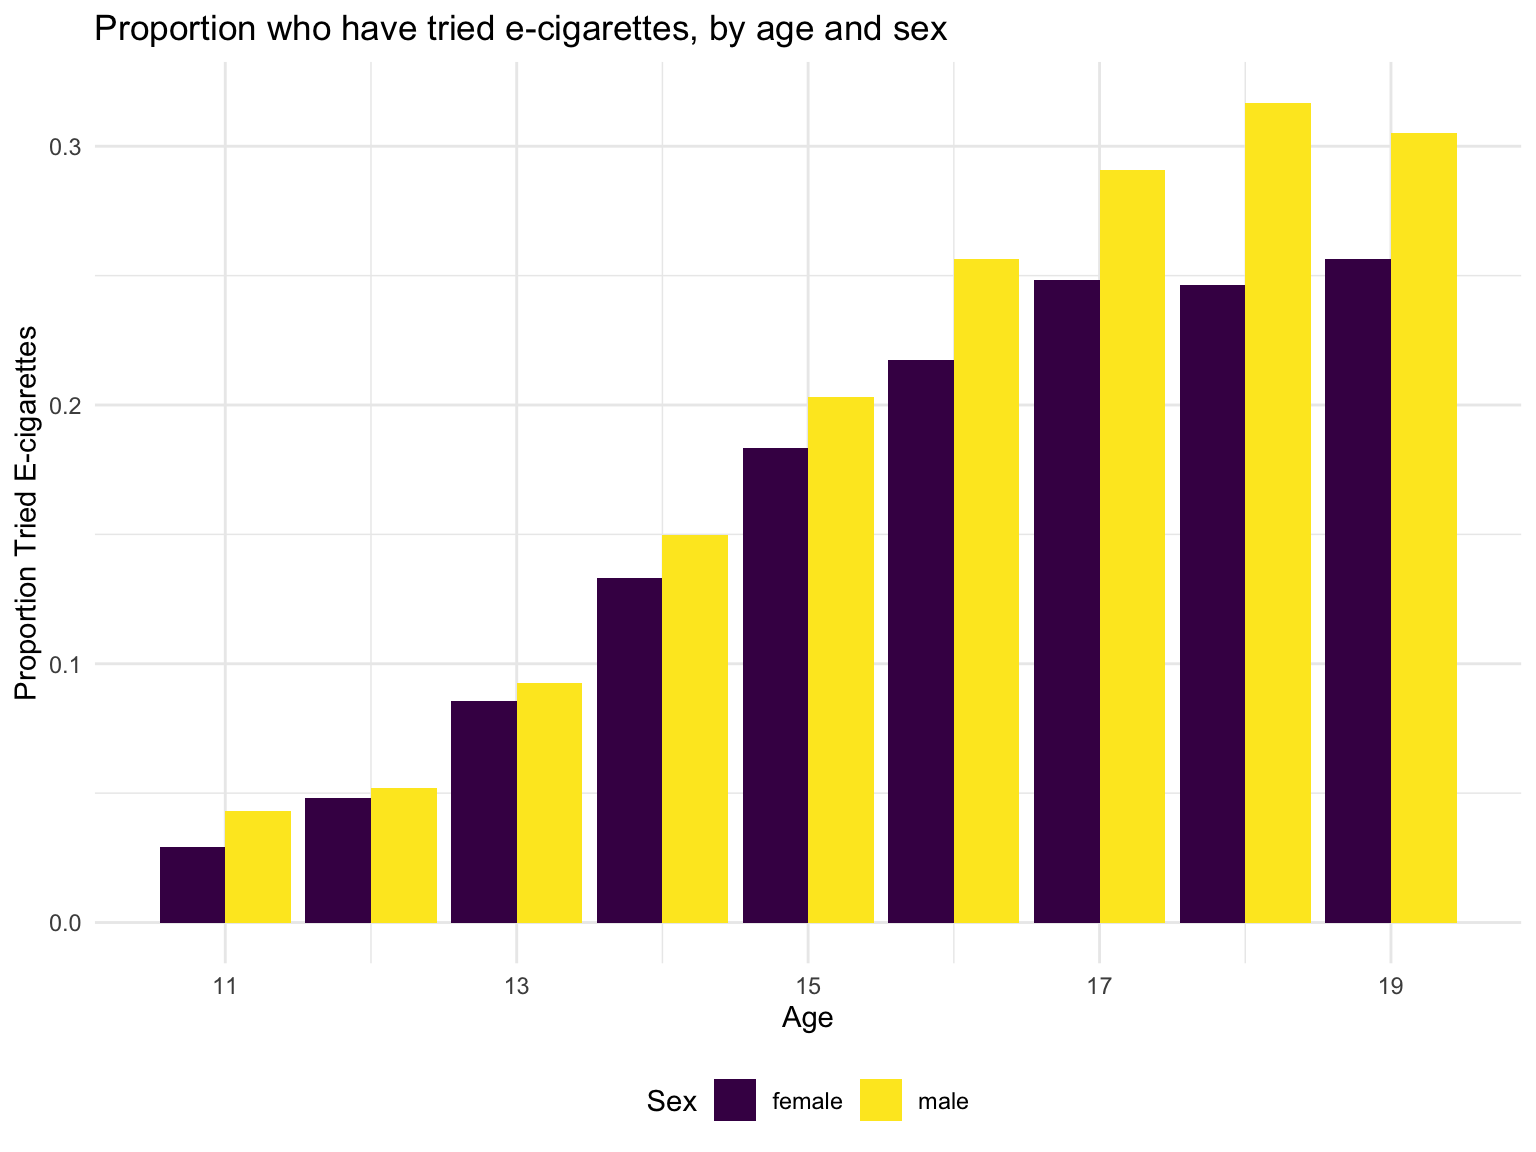
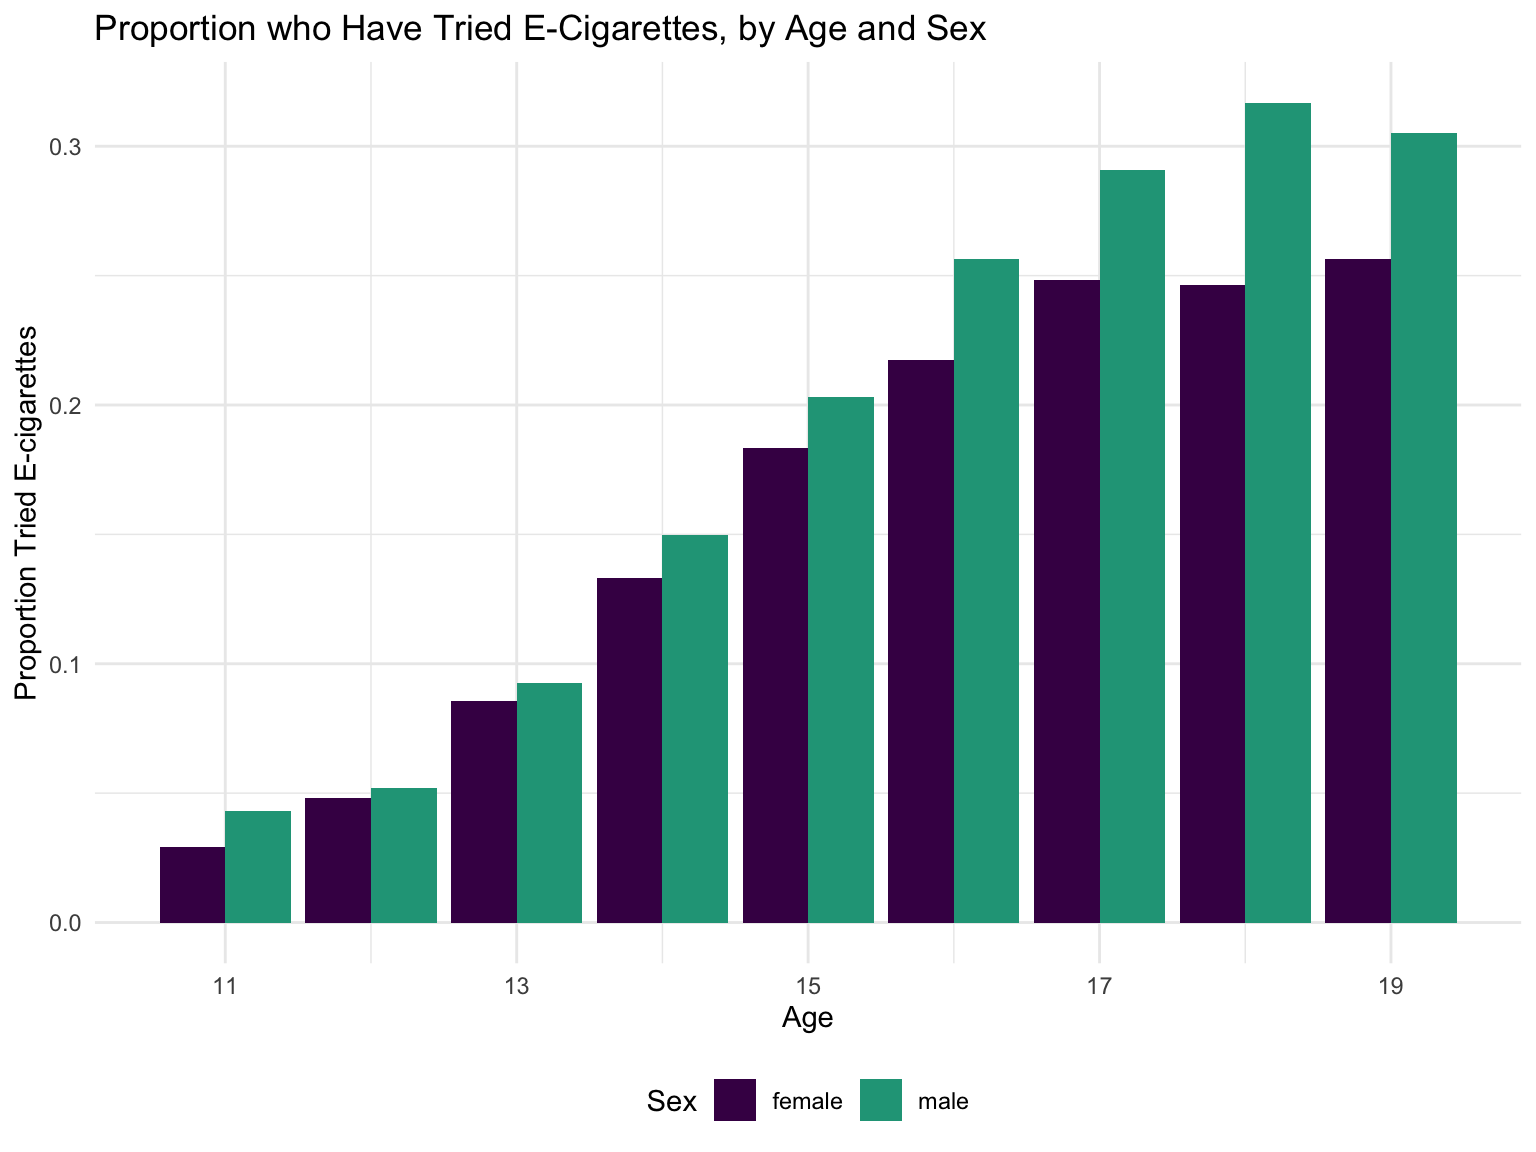
cleaned analysis page

diff --git a/analysis.html b/analysis.html
@@ -403,6 +403,7 @@ div.tocify {
 ecig_data = read.csv(&quot;./Data/ecig_data.csv&quot;)  </code></pre>
 <div id="logistic-model" class="section level1">
 <h1>Logistic Model</h1>
+<p><span class="math inline">\(y\sim age + year + sex + race + cig\_days + harm\_ecgis + ads\_ecigs\)</span></p>
 <pre class="r"><code>ecig_data_for_regression = 
   read.csv(&quot;./Data/ecig_data.csv&quot;) %&gt;%
   mutate(age = as.numeric(age),
@@ -700,8 +701,9 @@ ggplot(log_model_summary, aes(x = Variable, y = OR)) +
   geom_col(position = &quot;dodge&quot;) +
   ylab(&quot;Proportion Tried E-cigarettes&quot;) +
   labs(fill = &quot;Sex&quot;,
-       title = &quot;Proportion who have tried e-cigarettes, by year and sex&quot;) +
-  xlab(&quot;Year&quot;) </code></pre>
+       title = &quot;Proportion Who Have Tried E-Cigarettes, by Year and Sex&quot;) +
+  xlab(&quot;Year&quot;) +
+  scale_fill_manual(values = c(&quot;#440154FF&quot;, &quot;#20A387FF&quot;))</code></pre>
 <p><img src="analysis_files/figure-html/unnamed-chunk-3-1.png" width="90%" /></p>
 <p>From 2011-2018, we can see that the proportion of males who have tried e-cigarettes is consistently higher than females. Furthermore, both the male and female proportions spike from 2013-2014 and then relatively plateau from 2014-2018.</p>
 <p>Has the perception of harmfulness of electronic cigarettes compared to cigarettes changed over time?</p>
@@ -729,8 +731,7 @@ srv_ecig %&gt;%
     title = &quot;Perception of Harmfulness of E-Cigarettes Compared to Cigarettes&quot;,
     x = &quot;Year&quot;,
     y = &quot;Proportion of Belief&quot;,
-    fill = &quot;Harmfulness compared to cigarettes&quot;) +
-  theme(plot.title = element_text(hjust = 0.5))</code></pre>
+    fill = &quot;Harmfulness compared to cigarettes&quot;)</code></pre>
 <p><img src="analysis_files/figure-html/unnamed-chunk-4-1.png" width="90%" /></p>
 <p>Most individuals believed that e-cigarettes were less harmful than standard cigarettes, which may be linked to the recent increase in e-cigarette use in the United States. However, since 2012, there has been an overall decrease in the perception that e-cigarettes are less harmful than standard cigarettes. This trend is understandable, since researchers have been finding increasing evidence that e-cigarette use is associated with lung injury.</p>
 <p>Has the frequency of electronic cigarette and cigarette use changed over time?</p>
@@ -772,7 +773,7 @@ srv_ecig %&gt;%
     breaks=c(&quot;cig_days&quot;, &quot;ecig_days&quot;),
     labels=c(&quot;Cigarettes&quot;, &quot;E-Cigs&quot;)
     ) +
-  labs(title = &quot;Average days of smoking per month&quot;, y = &quot;Days Smoking&quot;, x = &quot;Year&quot;) </code></pre>
+  labs(title = &quot;Average Days of Smoking per Month&quot;, y = &quot;Days Smoking&quot;, x = &quot;Year&quot;) </code></pre>
 <p><img src="analysis_files/figure-html/unnamed-chunk-5-1.png" width="90%" /></p>
 <p>Overall, we can see that average monthly cigarette use has decreased from 2011-2018. Data on average monthly e-cigarette use is only available from 2015-2018; however, we can observe that e-cigarette use was more frequent than standard cigarette use from 2015-2018. E-cigarette use spiked from 2017-2018, but there does not seem to be evidence of a relationship between e-cigarette and standard cigarette use from this figure.</p>
 <p>Are cigarette smokers more likely to try electronic cigarettes?</p>
@@ -791,7 +792,7 @@ ecig_data %&gt;%
   xlab(&quot;Age&quot;) +
   ylab(&quot;Proportion Tried E-cigarettes&quot;) +
   labs(color = &quot;Smoking Status&quot;,
-       title = &quot;Proportion who have tried e-cigarettes, by age&quot;) +
+       title = &quot;Proportion who Have Tried E-Cigarettes, by Age&quot;) +
   scale_color_manual(values = c(&quot;#440154FF&quot;, &quot;#20A387FF&quot;)) +
   scale_x_continuous(breaks = seq(9, 19, 2))</code></pre>
 <p><img src="analysis_files/figure-html/unnamed-chunk-6-1.png" width="90%" /></p>
@@ -811,7 +812,8 @@ ecig_data %&gt;%
   xlab(&quot;Age&quot;) +
   ylab(&quot;Proportion Tried E-cigarettes&quot;) +
   labs(fill = &quot;Sex&quot;,
-       title = &quot;Proportion who have tried e-cigarettes, by age and sex&quot;) +
+       title = &quot;Proportion who Have Tried E-Cigarettes, by Age and Sex&quot;) +
+  scale_fill_manual(values = c(&quot;#440154FF&quot;, &quot;#20A387FF&quot;)) +
   scale_x_continuous(breaks = seq(11, 19, 2))</code></pre>
 <p><img src="analysis_files/figure-html/unnamed-chunk-7-1.png" width="90%" /></p>
 <p>Overall, we can observe that the proportion of individuals who have tried e-cigarettes has increased with age from 2011-2018. However, this plot shows that these proportions also increase among males and females.</p>
@@ -838,7 +840,7 @@ ecig_data %&gt;%
   geom_bar(stat = &quot;identity&quot;) + 
   coord_flip() + 
   scale_x_discrete(name= &quot;&quot;, labels = c(&quot;Hawaiian/Pacific&quot;, &quot;American Indian&quot;, &quot;White&quot;, &quot;Hispanic&quot;, &quot;Black&quot;, &quot;Asian&quot;)) + 
-  labs(y = &quot;Monthly E-cigarette Use&quot;, title = &quot;Average monthly e-cigarette use, by race&quot;) + 
+  labs(y = &quot;Monthly E-cigarette Use&quot;, title = &quot;Average Monthly E-Cigarette Use, by Race&quot;) + 
   theme(legend.position = &quot;none&quot;)</code></pre>
 <p><img src="analysis_files/figure-html/unnamed-chunk-8-1.png" width="90%" /></p>
 <p>This plot shows that Hawaiian and other pacific islander youth have the highest average rate of e-cigarette use per month, whereas asian youth have the lowest average rate, from 2011-2018.</p>
